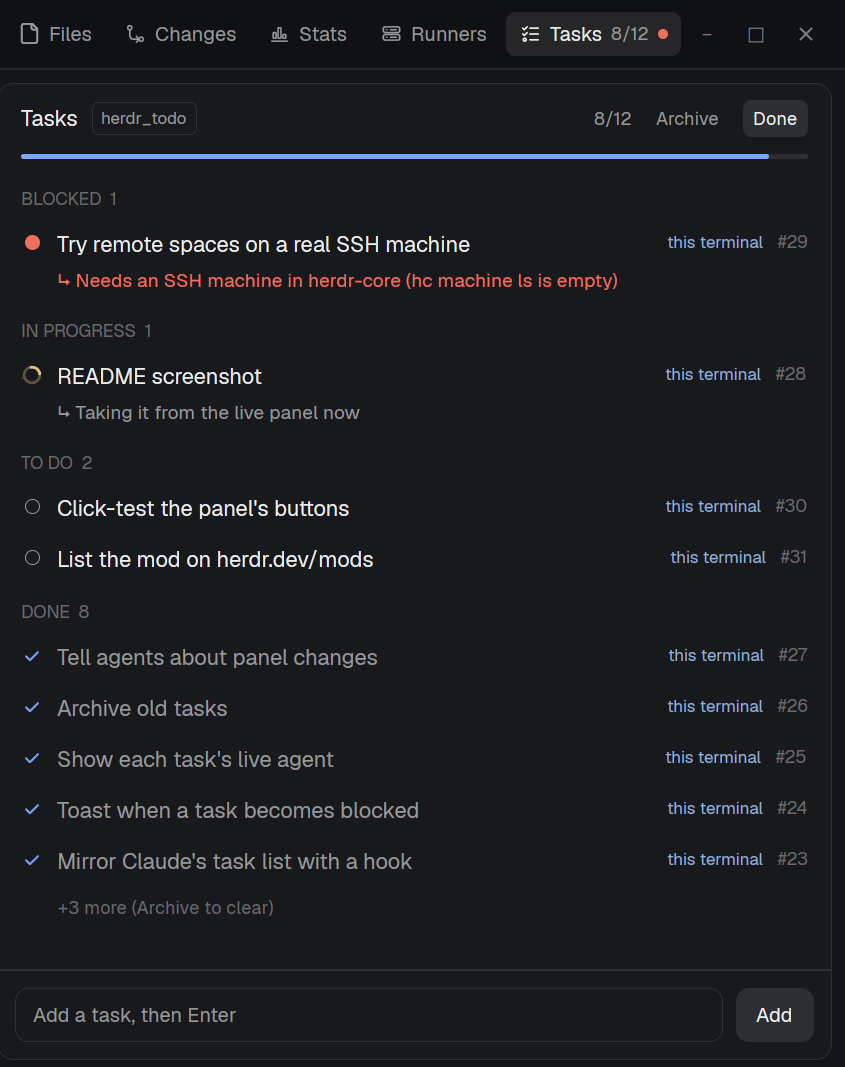
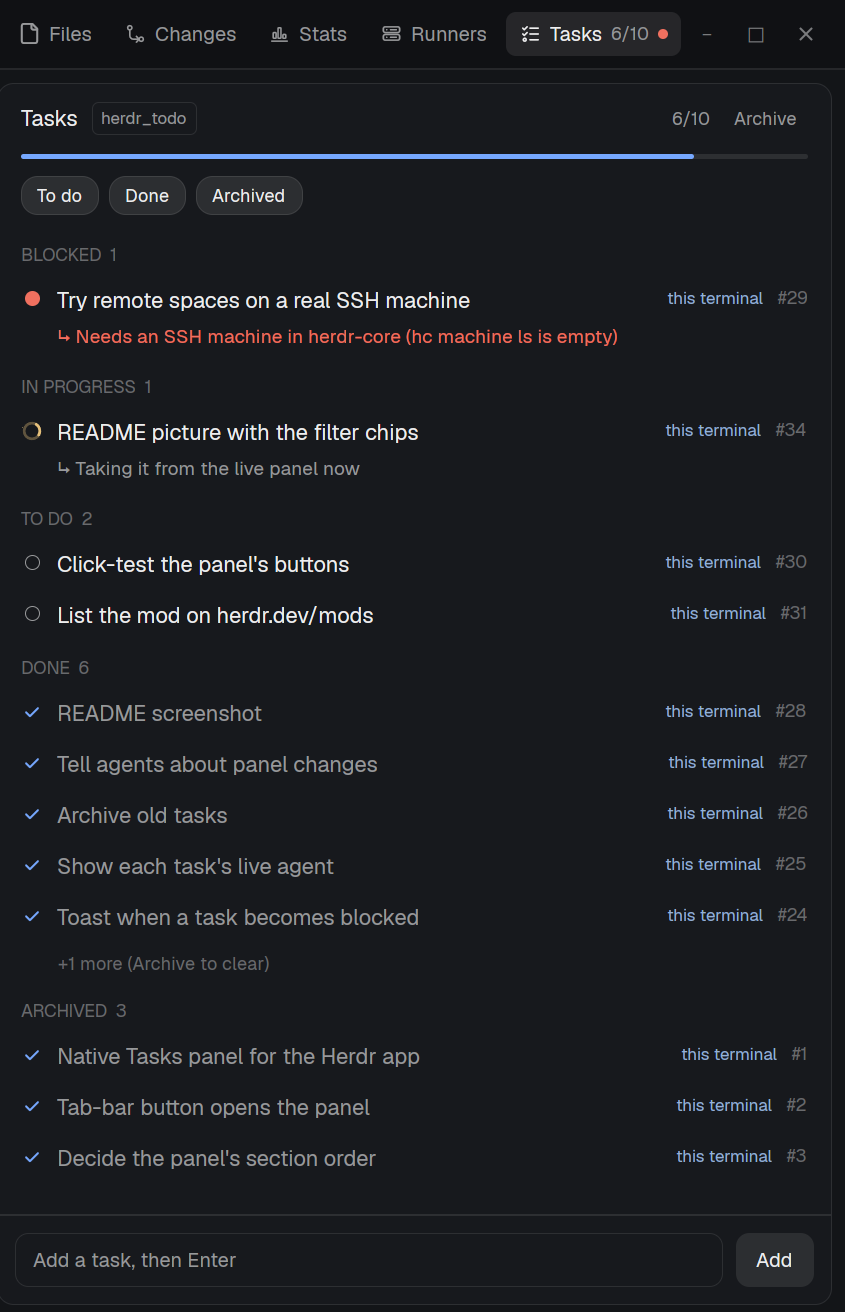
Filter chips (To do, Done, Archived), archive one task, new README picture
- App panel: To do / Done / Archived chips under the progress bar replace the
  header toggles, are remembered, and can be bound to keys
  (htask.toggle-todo|done|archived). The header keeps the count and Archive.
- htask archive <id>: archive one done or dropped task; done and dropped
  tasks get an Archive button in the panel.
- TUI: 't' shows or hides to-do tasks.
- docs/panel.png and docs/chip.png retaken from the live panel.

diff --git a/herdr-app/mods/htask/main.js b/herdr-app/mods/htask/main.js
@@ -3,7 +3,7 @@
 // Both read htask (one SQLite DB for every agent) and redraw when it writes or focus changes repo.
 import { View, div, svg } from "gpui-kit";
 import { v_flex, h_flex, Scrollbar, InputState, Input } from "gpui-base";
-import { theme, props, run, agents, terminals, hc, notify } from "herdr";
+import { theme, props, run, agents, terminals, hc, notify, nextCommand } from "herdr";
 import { htask, htaskError, qualify, location, watchSignal } from "./common.js";
 import { Chip } from "./chip.js";
 
@@ -17,12 +17,13 @@ const DONE_SHOWN = 5;
 // Blocked comes first because it needs you. Within each open section, the focused terminal's
 // tasks come first, then the rest of the repo's in id order (sort is stable). Done shows the
 // newest few. Dropped tasks don't show (htask list --all and Archive still see them).
-export function sections(tasks, terminal, showDone, machine) {
+export function sections(tasks, terminal, show, machine) {
   const mine = (task) => Boolean(terminal) && qualify(machine, task.pane_id) === terminal;
   const by = (status) => tasks.filter((task) => task.status === status)
     .sort((a, b) => Number(mine(b)) - Number(mine(a)));
-  const out = [["Blocked", by("blocked"), 0], ["In progress", by("doing"), 0], ["To do", by("todo"), 0]];
-  if (showDone) {
+  const out = [["Blocked", by("blocked"), 0], ["In progress", by("doing"), 0]];
+  if (show.todo) out.push(["To do", by("todo"), 0]);
+  if (show.done) {
     const done = tasks.filter((task) => task.status === "done")
       .sort((a, b) => (b.completed_at ?? 0) - (a.completed_at ?? 0));
     out.push(["Done", done.slice(0, DONE_SHOWN), Math.max(0, done.length - DONE_SHOWN)]);
@@ -52,8 +53,8 @@ const ACTIONS = {
   todo: [["Start", "start"], ["Done", "done"], ["Drop", "drop"]],
   doing: [["Done", "done"], ["Back to to-do", "reopen"], ["Drop", "drop"]],
   blocked: [["Unblock", "reopen"], ["Done", "done"], ["Drop", "drop"]],
-  done: [["Reopen", "reopen"]],
-  dropped: [["Reopen", "reopen"]],
+  done: [["Reopen", "reopen"], ["Archive", "archive"]],
+  dropped: [["Reopen", "reopen"], ["Archive", "archive"]],
 };
 
 // What the owning agent is told when you change its task from the panel.
@@ -72,12 +73,29 @@ function ago(seconds) {
   return `${Math.floor(s / 86400)}d ago`;
 }
 
+// The filter chips under the progress bar, in order. Blocked and In progress always show.
+const FILTERS = [["todo", "To do"], ["done", "Done"], ["archived", "Archived"]];
+const DEFAULT_SHOW = { todo: true, done: true, archived: false };
+
+function loadShow() {
+  try { return { ...DEFAULT_SHOW, ...JSON.parse(localStorage.getItem("show") ?? "{}") }; }
+  catch { return { ...DEFAULT_SHOW }; }
+}
+
 class Panel {
   init(_props, cx) {
     this.tasks = []; this.project = null; this.cwd = null; this.terminal = null;
-    this.open = new Set(); this.showDone = true; this.width = 0;
-    // The Archived toggle: off by default, and only then are archived tasks fetched.
-    this.showArchived = false; this.archived = [];
+    this.open = new Set(); this.width = 0;
+    // Which sections show; remembered per panel copy. Archived tasks are only fetched while shown.
+    this.show = loadShow(); this.archived = [];
+    // Key commands for this mod, e.g. keys.json "mod:htask" or "global": "htask.toggle-done".
+    cx.spawn(async (cx) => {
+      for (;;) {
+        const c = await nextCommand();
+        const name = /^toggle-(todo|done|archived)$/.exec(c)?.[1];
+        if (name) this.flip(name, cx);
+      }
+    });
     this.input = InputState.new({ placeholder: "Add a task, then Enter" });
     this.input.on("submit", (_e, cx) => this.add(cx));
     this.input.on("focus", (_e, cx) => { this.typing = true; cx.notify(); });
@@ -101,7 +119,7 @@ class Panel {
         if (r.code !== 0) throw new Error(htaskError(machine, r));
         const data = JSON.parse(r.stdout);
         let archived = [];
-        if (this.showArchived) {
+        if (this.show.archived) {
           const a = await htask(machine, ["--project", cwd, "list", "--archived", "--json"]);
           if (a.code !== 0) throw new Error(htaskError(machine, a));
           archived = JSON.parse(a.stdout).tasks.sort((x, y) => (y.archived_at ?? 0) - (x.archived_at ?? 0));
@@ -170,6 +188,13 @@ class Panel {
     if (!title) return;
     this.input.set_value("");
     this.htask(["add", "--agent", "you", "--", title], cx);
+  }
+
+  flip(name, cx) {
+    this.show = { ...this.show, [name]: !this.show[name] };
+    try { localStorage.setItem("show", JSON.stringify(this.show)); } catch { /* not remembered */ }
+    if (name === "archived") { this.archived = []; this.refresh(cx); }
+    cx.notify();
   }
 
   toggle(id, cx) {
@@ -246,8 +271,8 @@ class Panel {
     const done = counted.filter((task) => task.status === "done").length;
     const barWidth = Math.max(0, this.width - 28);
     const name = this.project ? this.project.split("/").pop() : "";
-    const shown = sections(this.tasks, this.terminal, this.showDone, this.machine).filter(([, rows]) => rows.length);
-    if (this.showArchived && this.archived.length) shown.push(["Archived", this.archived, 0]);
+    const shown = sections(this.tasks, this.terminal, this.show, this.machine).filter(([, rows]) => rows.length);
+    if (this.show.archived && this.archived.length) shown.push(["Archived", this.archived, 0]);
 
     const empty = this.error ? this.error
       : !this.cwd ? "Focus a terminal to see its repo's tasks."
@@ -265,23 +290,25 @@ class Panel {
         .when(done > 0, (e) => e.child(div().id("htask-archive").px(6).py(2).rounded(5).text_size(11).cursor_pointer()
           .text_color(t.muted).hover((s) => s.bg(t.hover)).tooltip("Archive this repo's done tasks (htask clean --days 0)")
           .on_click((_e, cx) => this.htask(["clean", "--days", "0"], cx)).child("Archive")))
-        .child(div().id("htask-done").px(6).py(2).rounded(5).text_size(11).cursor_pointer()
-          .text_color(this.showDone ? t.foreground : t.dim).bg(this.showDone ? t.raised : t.background).hover((s) => s.bg(t.hover))
-          .on_click((_e, cx) => { this.showDone = !this.showDone; cx.notify(); })
-          .tooltip(this.showDone ? "Hide done tasks" : "Show done tasks").child("Done"))
-        .child(div().id("htask-archived").px(6).py(2).rounded(5).text_size(11).cursor_pointer()
-          .text_color(this.showArchived ? t.foreground : t.dim).bg(this.showArchived ? t.raised : t.background).hover((s) => s.bg(t.hover))
-          .on_click((_e, cx) => { this.showArchived = !this.showArchived; this.archived = []; this.refresh(cx); cx.notify(); })
-          .tooltip(this.showArchived ? "Hide archived tasks" : "Show archived tasks (reopen one to bring it back)").child("Archived")))
+        )
       .child(div().mx(14).h(3).flex_none().rounded(2).bg(t.border)
         .child(div().h_full().rounded(2).bg(t.done).w(counted.length ? barWidth * done / counted.length : 0)))
+      .child(h_flex().flex_none().px(14).pt(10).gap(6).items_center()
+        .children(FILTERS.map(([name, label]) => {
+          const on = this.show[name];
+          return div().id(`show-${name}`).px(9).py(2).rounded(10).text_size(11).cursor_pointer().border_1()
+            .border_color(on ? t.border : t.background).bg(on ? t.raised : t.background)
+            .text_color(on ? t.foreground : t.dim).hover((st) => st.bg(t.hover))
+            .tooltip(`${on ? "Hide" : "Show"} ${label.toLowerCase()} tasks`)
+            .on_click((_e, cx) => this.flip(name, cx)).child(label);
+        })))
       .child(div().flex_1().min_h(0).relative().mt(8)
         .child(v_flex().id("htask-list").absolute().inset_0().overflow_y_scroll().px(6).pb(8)
           .children(shown.map(([title, rows, more]) => v_flex().flex_none()
             .child(div().px(8).pt(8).pb(3).text_size(10.5).font_semibold().text_color(t.dim).child(`${title.toUpperCase()}  ${rows.length + more}`))
             .children(rows.map((task) => this.row(task, t)))
             .when(more > 0, (e) => e.child(div().px(8).pl(30).py(3).text_size(11).text_color(t.dim).child(`+${more} more (Archive to clear)`)))))
-          .when(this.showArchived && !this.archived.length && Boolean(this.project) && !this.loading, (e) => e.child(
+          .when(this.show.archived && !this.archived.length && Boolean(this.project) && !this.loading, (e) => e.child(
             div().px(8).pt(8).text_size(11).text_color(t.dim).child(`Nothing archived in ${name}.`)))
           .when(!shown.length, (e) => e.child(v_flex().p(8).gap(6).text_color(t.dim)
             .child(empty)

diff --git a/tests/test_htask.py b/tests/test_htask.py
@@ -316,5 +316,32 @@ class TuiArchived(unittest.TestCase):
         self.assertIn("Nothing archived", text(htask._render([], "/r", ctx, 80, True, True, color, [])))
 
 
+class ArchiveOne(Base):
+    def test_archive_done_task_and_reopen(self):
+        self.run_htask("add", "a")
+        self.run_htask("add", "b")
+        self.run_htask("done", "1")
+        self.run_htask("archive", "1")
+        self.assertEqual([t["title"] for t in self.tasks()], ["b"])
+        self.run_htask("reopen", "1")
+        self.assertEqual([t["title"] for t in self.tasks()], ["a", "b"])
+
+    def test_open_tasks_cannot_be_archived(self):
+        self.run_htask("add", "a")
+        out = self.run_htask("archive", "1", check=False)
+        self.assertNotEqual(out.returncode, 0)
+        self.assertIn("only done or dropped", out.stderr)
+
+
+class TodoToggle(unittest.TestCase):
+    def test_hiding_todo(self):
+        from importlib.machinery import SourceFileLoader
+        htask = SourceFileLoader("htask_module", str(HTASK)).load_module()
+        tasks = [{"id": 1, "status": "todo", "pane_id": None, "completed_at": None}]
+        titles = lambda **kw: [t for t, _, _ in htask.order_tasks(tasks, None, True, **kw)]
+        self.assertIn("TO DO", titles())
+        self.assertNotIn("TO DO", titles(show_todo=False))
+
+
 if __name__ == "__main__":
     unittest.main()

diff --git a/README.md b/README.md
@@ -6,11 +6,11 @@ what they're working on, what's blocked, and what's left. Agents record tasks wi
 repo's tasks, and updates as soon as any agent writes.
 
 <p align="center">
-  <img src="docs/panel.png" width="420" alt="The Tasks panel in the Herdr desktop app: a blocked task with its reason, a task in progress, two to-do tasks and the five most recent done tasks, with a Tasks 8/12 button and a red dot in the tab bar">
+  <img src="docs/panel.png" width="420" alt="The Tasks panel in the Herdr desktop app: To do, Done and Archived filter chips, a blocked task with its reason, a task in progress, two to-do tasks, the five most recent done tasks and three archived ones, with a Tasks 6/10 button and a red dot in the tab bar">
 </p>
 
 The panel showing this repo's own tasks. The status bar gets a chip with the same count and how
-many tasks are blocked across all repos: <img src="docs/chip.png" height="22" alt="Status-bar chip: 8/12, 5 blocked">
+many tasks are blocked across all repos: <img src="docs/chip.png" height="22" alt="Status-bar chip: 6/10, 5 blocked">
 
 (The middle of the panel, which was empty, is cut out of the screenshot.)
 
@@ -90,8 +90,15 @@ In the panel:
 - type in the box at the bottom and press Enter to add a task for the next agent;
 - in-progress and blocked tasks show their agent's live state (`t6 working`). Click it to jump to
   that terminal. If the agent has exited or its terminal has closed, the task says so;
-- **Done** shows the five most recent tasks; **Archive** puts away this repo's done tasks, and
-  the **Archived** toggle shows them again (newest first). Reopen one to bring it back.
+- the **To do**, **Done** and **Archived** chips show or hide those sections (Blocked and In
+  progress always show); the panel remembers them. Done shows the five most recent tasks;
+  Archived shows archived tasks newest first;
+- **Archive** in the header puts away all of this repo's done tasks; a done or dropped task's own
+  **Archive** button puts away just that one. Reopen an archived task to bring it back.
+
+The chips can be keys too: bind `htask.toggle-todo`, `htask.toggle-done` or
+`htask.toggle-archived` in `~/.config/herdr-app/keys.json`, for example
+`"global": { "ctrl-alt-t": "htask.toggle-todo" }`.
 
 Spaces on SSH machines run htask on that machine, against that machine's own database. Install
 it there once (`scp htask <machine>:~/.local/bin/htask`). Remote spaces refresh every 5 seconds.
@@ -108,8 +115,8 @@ command = "calvin.htask.open"
 description = "open task panel"
 ```
 
-Panel keys: `j`/`k` scroll, `d` show or hide done tasks, `a` show or hide archived tasks,
-`v` show or hide descriptions, `q` close.
+Panel keys: `j`/`k` scroll, `t` show or hide to-do tasks, `d` done tasks, `a` archived tasks,
+`v` descriptions, `q` close.
 
 For progress in the sidebar, add the `$tasks` token (done/total for the agent's repo, updated
 whenever an agent in that pane changes a task):
@@ -198,6 +205,7 @@ htask block <id> -m "what you need"
 htask note <id> "text"
 htask edit <id> [--title ...] [-d ...]
 htask list [--all] [--archived] [--json]
+htask archive <id>...                     # archive done/dropped tasks now
 htask clean [--days 7] [--everywhere] [--dry-run]   # archive old done/dropped tasks
 htask summary                             # JSON: counts here + blocked tasks everywhere
 htask panel                               # the terminal panel (curses)
